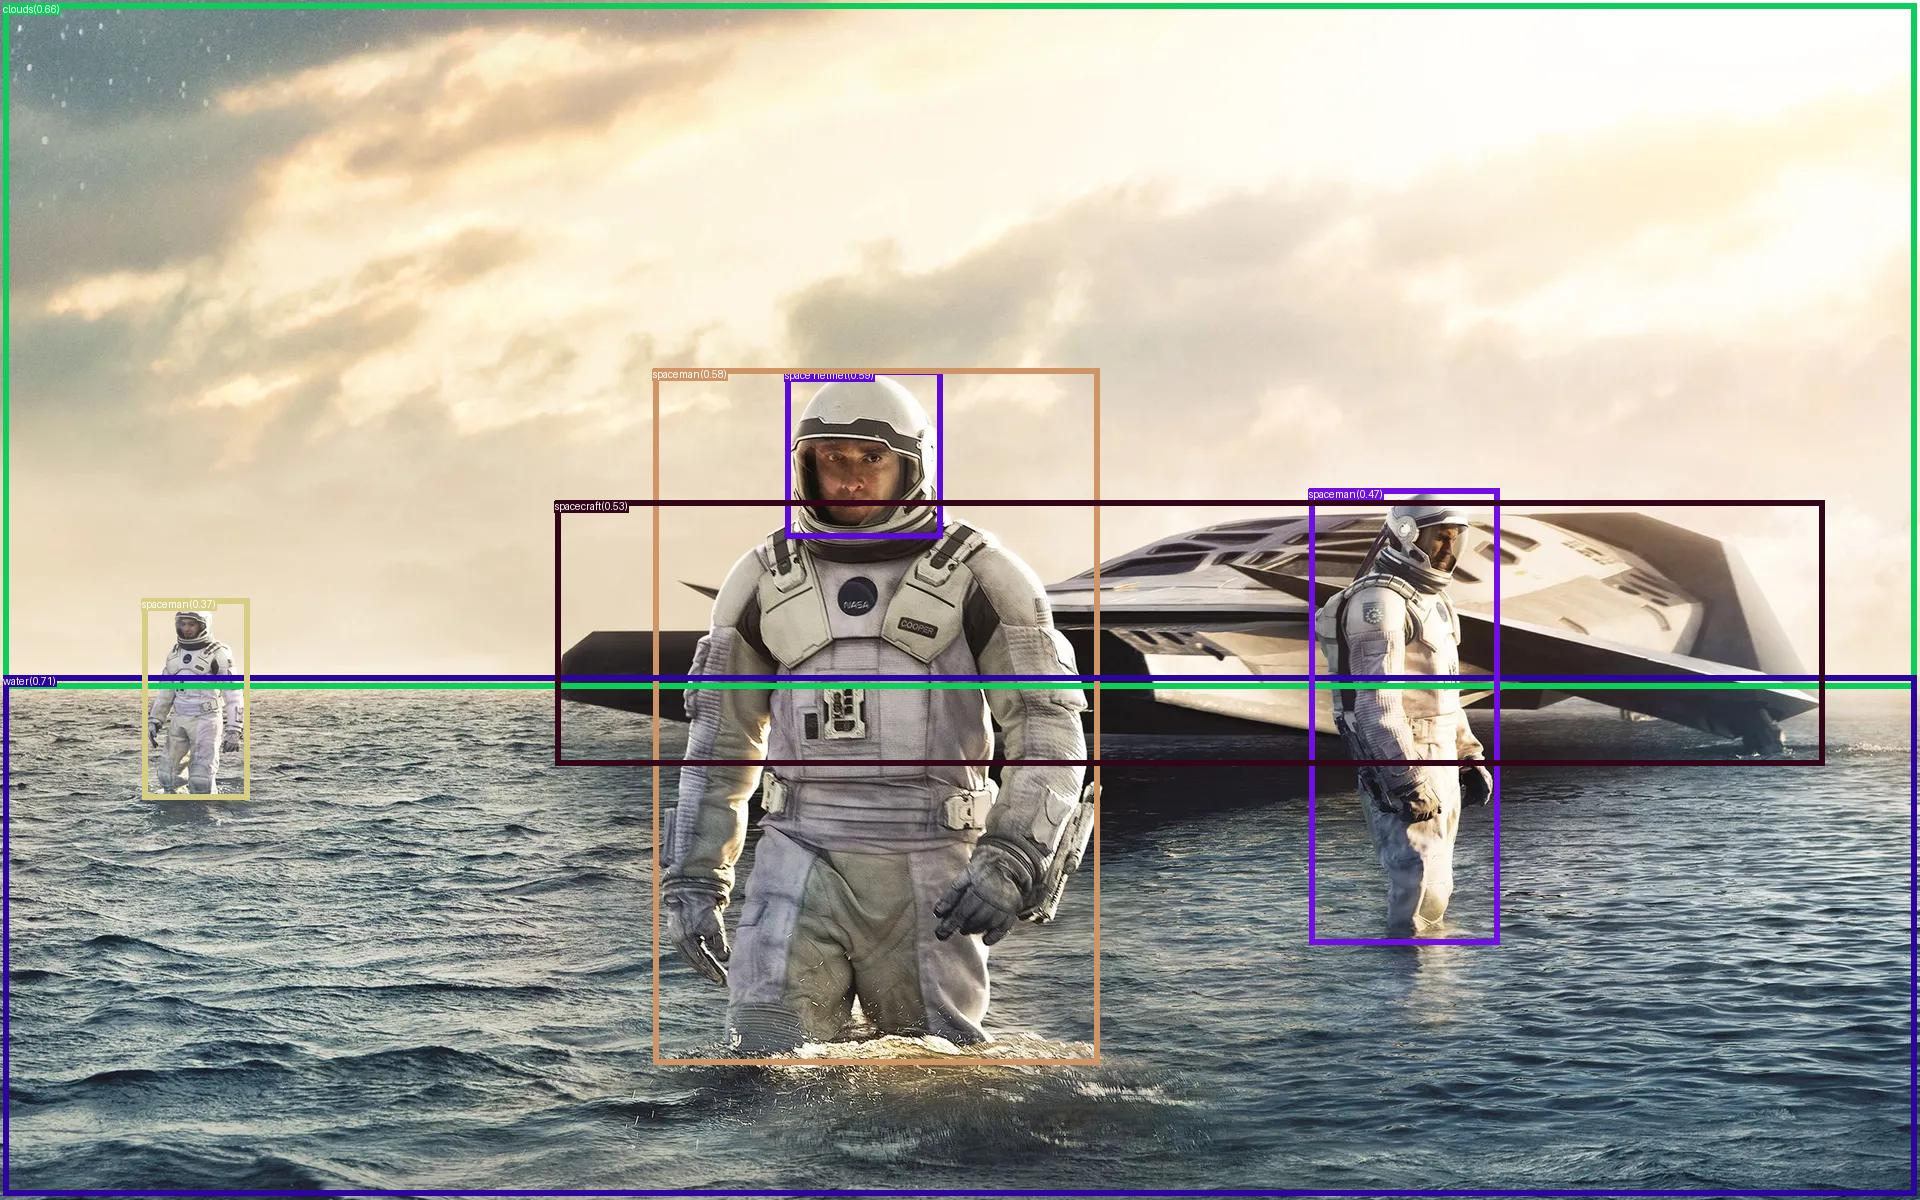
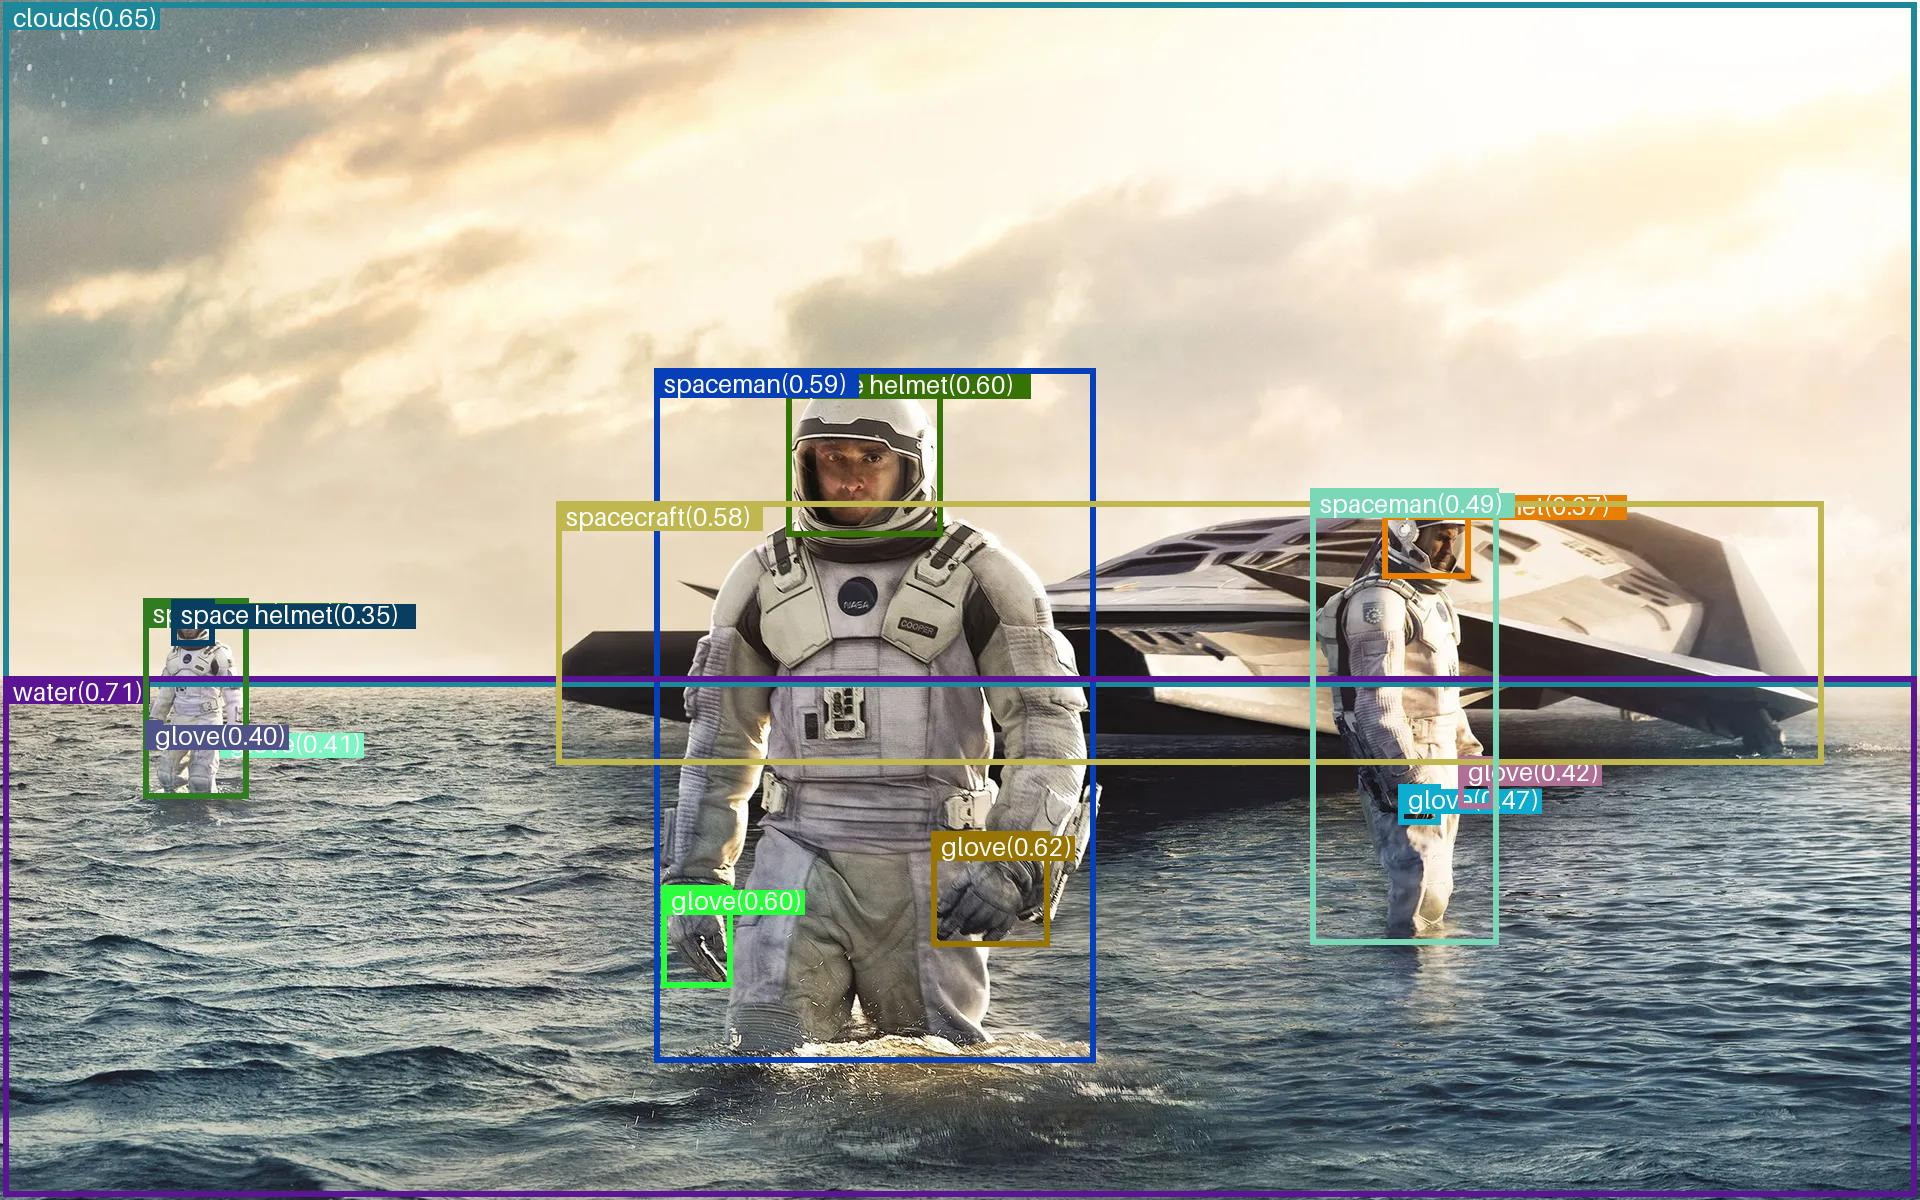
updating viz function and example

Changed region(s): [[0.0, 0.0, 1.0, 0.8942], [0.0, 0.9867, 1.0, 1.0]]

diff --git a/utils/gdino_utils.py b/utils/gdino_utils.py
@@ -1,3 +1,5 @@
+import os
+import cv2
 import numpy as np
 from PIL import Image, ImageDraw, ImageFont
 
@@ -67,11 +69,21 @@ def generate_masks_with_special_tokens_and_transfer_map(tokenized, special_token
     return attention_mask, position_ids.to(torch.long), cate_to_token_mask_list
 
 
-def viz(image_pil, tgt):
+def viz(image_pil, 
+        tgt, 
+        label_size=25,
+        bbox_thickness=6
+        ):
+
     H, W = tgt["size"]
     boxes = tgt["boxes"]
     labels = tgt["labels"]
+    
+
+    font_path = os.path.join(cv2.__path__[0],'qt','fonts','DejaVuSans.ttf')
+    font = ImageFont.truetype(font_path, size=label_size)
     assert len(boxes) == len(labels), "boxes and labels must have same length"
+    
 
     draw = ImageDraw.Draw(image_pil)
     mask = Image.new("L", image_pil.size, 0)
@@ -79,7 +91,6 @@ def viz(image_pil, tgt):
 
     # draw boxes and masks
     for box, label in zip(boxes, labels):
-        # from 0..1 to 0..W, 0..H
         box = box * torch.Tensor([W, H, W, H])
         # from xywh to xyxy
         box[:2] -= box[2:] / 2
@@ -90,18 +101,15 @@ def viz(image_pil, tgt):
         x0, y0, x1, y1 = box
         x0, y0, x1, y1 = int(x0), int(y0), int(x1), int(y1)
 
-        draw.rectangle([x0, y0, x1, y1], outline=color, width=6)
-        # draw.text((x0, y0), str(label), fill=color)
-
-        font = ImageFont.load_default()
+        draw.rectangle([x0, y0, x1, y1], outline=color, width=bbox_thickness)
         if hasattr(font, "getbbox"):
             bbox = draw.textbbox((x0, y0), str(label), font)
         else:
             w, h = draw.textsize(str(label), font)
             bbox = (x0, y0, w + x0, y0 + h)
-        # bbox = draw.textbbox((x0, y0), str(label))
+   
         draw.rectangle(bbox, fill=color)
-        draw.text((x0, y0), str(label), fill="white")
+        draw.text((x0, y0), f'  {str(label)}', fill="white", font_size=label_size)
 
         mask_draw.rectangle([x0, y0, x1, y1], fill=255, width=6)
 

diff --git a/gdino/model.py b/gdino/model.py
@@ -70,6 +70,8 @@ class OnnxGDINO:
         self.type = type
 
         self._model_urls = {'gdino_fp32.onnx': 'https://drive.google.com/file/d/1bdnUeBnMfIhlvswDDMG1L_gSW4URZWt8/view?usp=sharing',}
+        self._model_urls = {'gdino_fp16.onnx': 'https://drive.google.com/file/d/1bdnUeBnMfIhlvswDDMG1L_gSW4URZWt8/view?usp=sharing',}
+
 
         vocab_dir = f'{os.path.dirname(os.path.abspath(__file__))}/data/vocab.txt'
         model_dir= f'{os.path.dirname(os.path.abspath(__file__))}/data/{type}.onnx'
@@ -88,6 +90,10 @@ class OnnxGDINO:
 
     
     def _load_model(self, path: str):
+
+        sess_options = ort.SessionOptions()
+        sess_options.graph_optimization_level = ort.GraphOptimizationLevel.ORT_DISABLE_ALL
+
 
 
         try:
@@ -111,7 +117,10 @@ class OnnxGDINO:
         
             # `providers` need to be set explicitly since ORT 1.9
             return ort.InferenceSession(
-                path, providers=self.providers
+                path, 
+                sess_options,
+                providers=self.providers,
+                
             )
             
     def preprocess_query(self, 

diff --git a/test.py b/test.py
@@ -1,0 +1,42 @@
+
+import os
+import time
+import logging
+import torch
+import numpy as np
+from gdino.model import OnnxGDINO
+from  utils.gdino_utils import load_image, viz
+
+logging.basicConfig(level=logging.INFO)
+
+output_dir = 'output'
+
+ogd = OnnxGDINO(type='gdino_fp32')
+
+payload = ogd.preprocess_query("spaceman. spacecraft. water. clouds. space helmet. glove")
+img, img_transformed = load_image('images/wave_planet.webp')
+
+img.save(os.path.join(output_dir, "pred.jpg"))
+
+
+start = time.time()
+filtered_boxes, predicted_phrases = ogd.inference(img_transformed.astype(np.float32), 
+                                                  payload,
+                                                  text_threshold=0.25, 
+                                                  box_threshold=0.35,)
+
+end = time.time()
+
+print((end-start)*1000)
+
+
+size = img.size
+pred_dict = {
+    "boxes": filtered_boxes,
+    "size": [size[1], size[0]],
+    "labels": predicted_phrases,
+}
+
+predictions = viz(img, pred_dict)[0]
+predictions.save(os.path.join(output_dir, "pred.jpg"))
+
